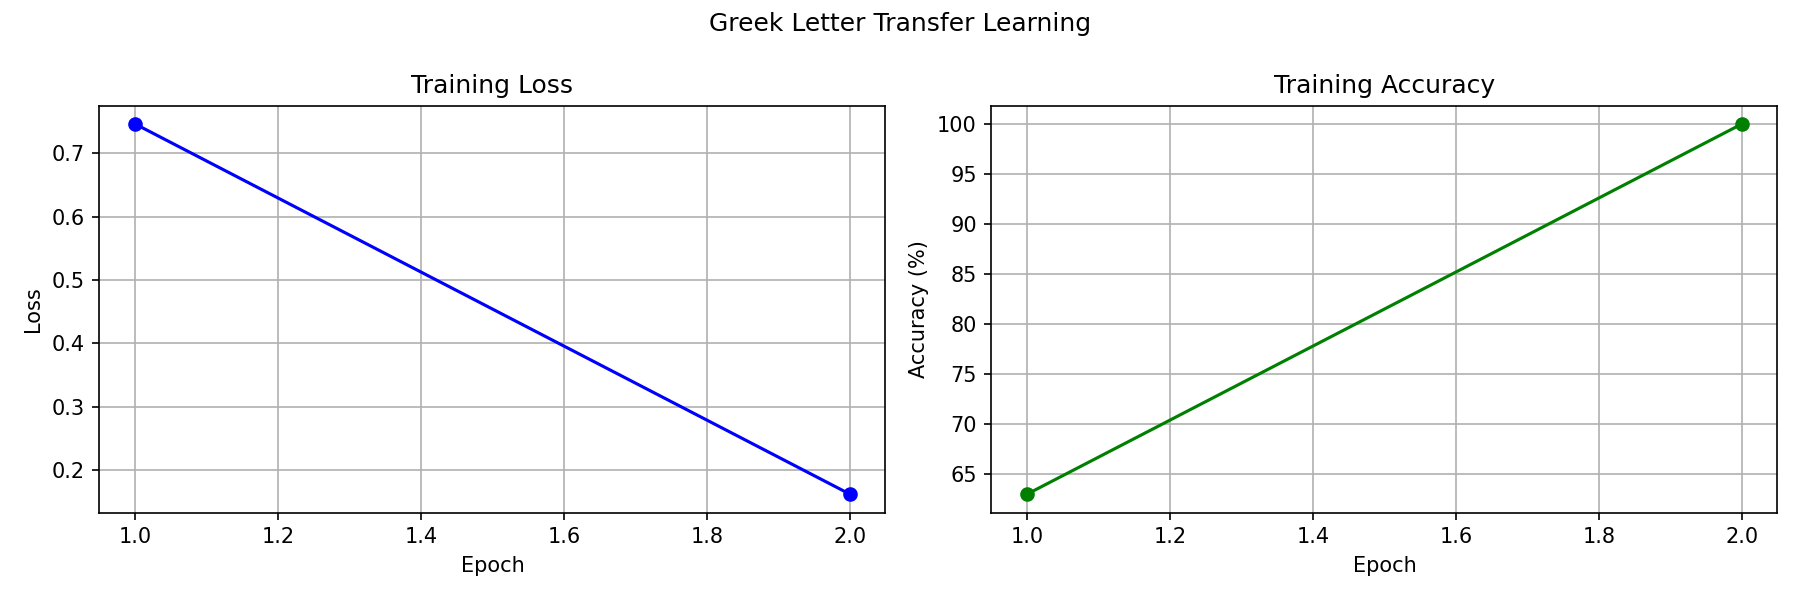
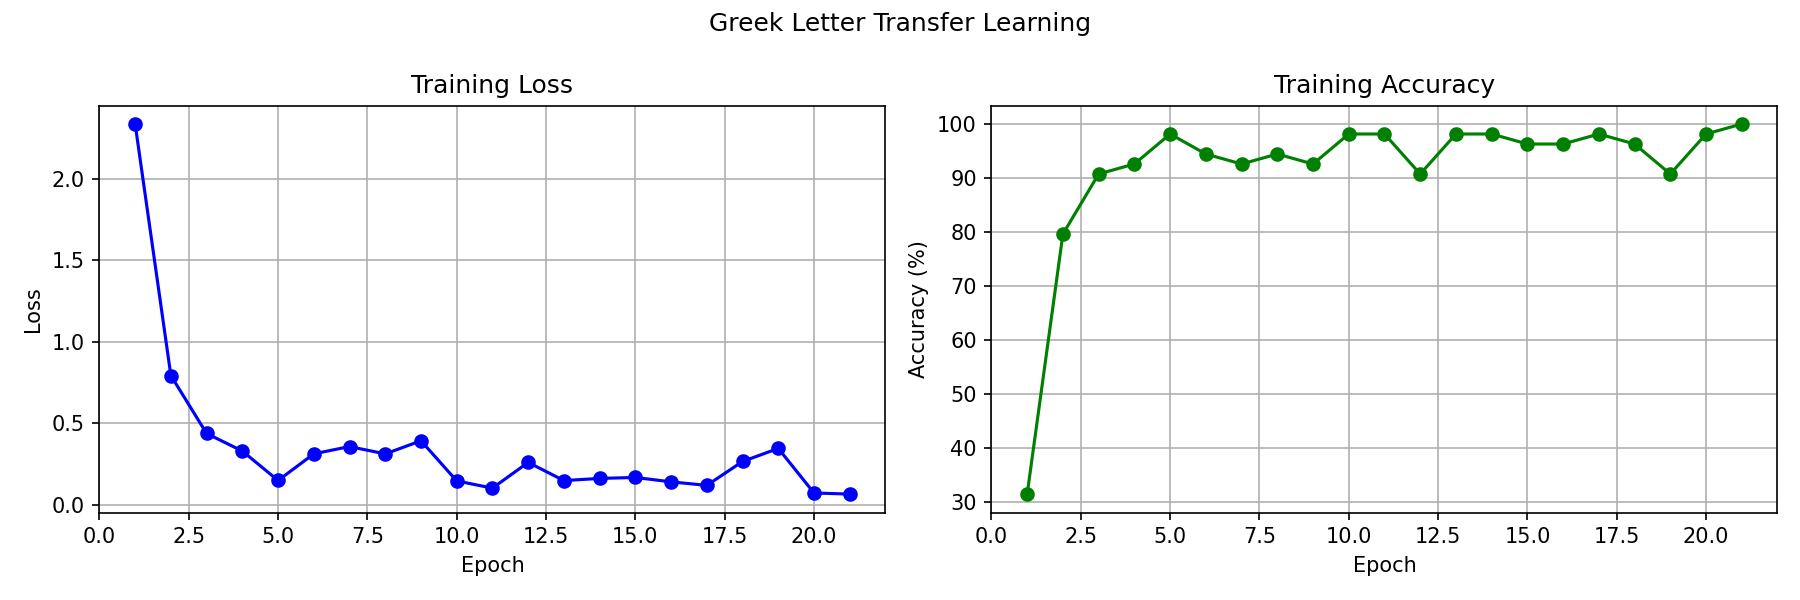
Extension: Transfer learning on additional letters.

diff --git a/greek_transfer.py b/greek_transfer.py
@@ -1,4 +1,3 @@
-
 """
 Aafi Mansuri, Terry Zhen
 Apr 2026
@@ -20,6 +19,7 @@ import matplotlib.pyplot as plt
 from mnist_network import MyNetwork
 from test_network import load_model
 
+
 class GreekTransform:
     def __init__(self) -> None:
         pass
@@ -27,18 +27,22 @@ class GreekTransform:
     def __call__(self, x):
         x = TF.rgb_to_grayscale(x)
         x = TF.affine(x, 0, [0, 0], 36/128, [0.0])
-        x = TF.center_crop(x,(28,28))
+        x = TF.center_crop(x, (28, 28))
         return TF.invert(x)
-    
-def load_greek_data(training_set_path, batch_size = 5):
+
+
+def load_greek_data(training_set_path, batch_size=5):
+    transform_list = [torchvision.transforms.ToTensor()]
+
+    transform_list += [
+        GreekTransform(),
+        torchvision.transforms.Normalize((0.1307,), (0.3081,))
+    ]
+
     greek_train = DataLoader(
         torchvision.datasets.ImageFolder(
             training_set_path,
-            transform=torchvision.transforms.Compose([
-                torchvision.transforms.ToTensor(),
-                GreekTransform(),
-                torchvision.transforms.Normalize((0.1307,), (0.3081,))
-            ])
+            transform=torchvision.transforms.Compose(transform_list)
         ),
         batch_size=batch_size,
         shuffle=True
@@ -47,16 +51,20 @@ def load_greek_data(training_set_path, batch_size = 5):
     return greek_train
 
 
-def prepare_transfer_model(model_path):
+def prepare_transfer_model(model_path, num_classes=3):
     # Load pretrained MNIST model
     model = load_model(model_path)
 
     # Freeze all layers so pretrained weights don't change
     for param in model.parameters():
         param.requires_grad = False
-    
+
+    # Unfreeze fc1
+    for param in model.fc1.parameters():
+        param.requires_grad = True
+
     # Replace last layer
-    model.fc2 = nn.Linear(50,3)
+    model.fc2 = nn.Linear(50, num_classes)
 
     print("Modified network for Greek letter classification:")
     print(model)
@@ -89,9 +97,10 @@ def train_epoch(model, train_loader, optimizer, epoch):
 
     return avg_loss, accuracy
 
-# Plot training loss and accuract over epochs
+
+# Plot training loss and accuracy over epochs
 def plot_training_curves(losses, accuracies):
-    epochs = range(1,len(losses) + 1)
+    epochs = range(1, len(losses) + 1)
 
     fig, (ax1, ax2) = plt.subplots(1, 2, figsize=(12, 4))
 
@@ -117,52 +126,42 @@ def plot_training_curves(losses, accuracies):
 def main(argv):
     model_path = argv[1] if len(argv) > 1 else 'mnist_model.pth'
     data_path = argv[2] if len(argv) > 2 else 'greek_train'
-    num_epochs = int(argv[3]) if len(argv) > 3 else 50
+    num_epochs = int(argv[3]) if len(argv) > 3 else 100
 
     print(f"Training for {num_epochs} epochs")
 
+    # Detect number of classes from subfolder count
+    import os
+    num_classes = len([d for d in os.listdir(data_path) if os.path.isdir(os.path.join(data_path, d))])
+    print(f"Detected {num_classes} classes")
+
     train_loader = load_greek_data(data_path)
-    model = prepare_transfer_model(model_path)
-    optimizer = torch.optim.SGD(model.fc2.parameters(), lr=0.05, momentum=0.9)
-
-    # dataset = train_loader.dataset
-    # print(f"Classes: {dataset.classes}")
-    # print(f"Total images: {len(dataset)}")
-    # print(f"Class to idx: {dataset.class_to_idx}")
-
-    # fig, axes = plt.subplots(1, 9, figsize=(18, 2))
-    # for i in range(9):
-    #     img, label = dataset[i * 3]
-    #     axes[i].imshow(img[0], cmap='gray')
-    #     axes[i].set_title(f"{dataset.classes[label]}")
-    #     axes[i].axis('off')
-    # plt.suptitle("Transformed Greek Letters")
-    # plt.tight_layout()
-    # plt.show()
+    model = prepare_transfer_model(model_path, num_classes=num_classes)
+    optimizer = torch.optim.SGD(model.fc2.parameters(), lr=0.01, momentum=0.9)
 
     losses = []
     accuracies = []
 
     for epoch in range(1, num_epochs + 1):
-        loss, accuracy = train_epoch(model, train_loader,optimizer,epoch)
+        loss, accuracy = train_epoch(model, train_loader, optimizer, epoch)
         losses.append(loss)
         accuracies.append(accuracy)
 
         if epoch % 10 == 0 or accuracy == 100.0:
             print(f"Epoch {epoch}: Loss = {loss:.4f} | Accuracy = {accuracy:.1f}%")
-        
-        # stop early
+
+        # Stop early
         if accuracy == 100.0:
             print(f"Reached 100% accuracy at epoch {epoch}")
             break
 
-    plot_training_curves(losses,accuracies)
+    plot_training_curves(losses, accuracies)
 
     torch.save(model.state_dict(), 'greek_model.pth')
     print("Model saved to 'greek_model.pth'")
 
     return
 
+
 if __name__ == "__main__":
     main(sys.argv)
-

diff --git a/test_transformer.py b/test_transformer.py
@@ -1,0 +1,71 @@
+"""
+Aafi Mansuri, Terry Zhen
+Apr 2026
+CS 5330 - Project 5: Recognition using Deep Networks
+
+Test trained Vision Transformer on MNIST test set
+"""
+
+import sys
+import torch
+import matplotlib.pyplot as plt
+
+from mnist_network import load_data
+from net_transformer import NetTransformer, NetConfig
+
+
+def load_transformer_model(model_path):
+    config = NetConfig()
+    model = NetTransformer(config)
+    model.load_state_dict(torch.load(model_path, weights_only=True, map_location='cpu'))
+    model.eval()
+    return model
+
+
+def run_first_ten(model, test_loader):
+    examples = enumerate(test_loader)
+    _, (images, labels) = next(examples)
+
+    with torch.no_grad():
+        outputs = model(images)
+
+    print("{:^85} {:<20} {:<6}".format(
+        "'Output Values (log softmax)'", "'Max Val Index'", "'Correct Label'\n"))
+
+    for i in range(10):
+        values = outputs[i].numpy()
+        predicted = values.argmax()
+        actual = labels[i].item()
+        formatted_values = " ".join(f"{v:7.2f}" for v in values)
+        print(f"[{formatted_values}]           [{predicted}]                 [{actual}]")
+
+    fig, axes = plt.subplots(3, 3, figsize=(8, 8))
+    for i, ax in enumerate(axes.flat):
+        predicted = outputs[i].numpy().argmax()
+        actual = labels[i].item()
+        color = 'green' if predicted == actual else 'red'
+        ax.imshow(images[i][0], cmap='gray')
+        ax.set_title(f"Predicted: {predicted} | Actual: {actual}", color=color, fontsize=10)
+        ax.axis('off')
+
+    plt.suptitle('Transformer: First 9 MNIST Test Predictions\n(green = correct, red = incorrect)')
+    plt.tight_layout()
+    plt.savefig('transformer_test_predictions.png', dpi=150)
+    plt.show()
+    print("\nSaved transformer_test_predictions.png")
+
+
+def main(argv):
+    model_path = argv[1] if len(argv) > 1 else 'transformer_model.pth'
+
+    print(f"Loading transformer model from {model_path}")
+    model = load_transformer_model(model_path)
+
+    _, test_loader = load_data(10)
+
+    print("Running first ten test samples\n")
+    run_first_ten(model, test_loader)
+
+
+if __name__ == "__main__":
+    main(sys.argv)

diff --git a/test_greek.py b/test_greek.py
@@ -20,7 +20,7 @@ from test_network import load_model
 
 
 # Class label mapping
-CLASS_NAMES = ['alpha', 'beta', 'gamma']
+CLASS_NAMES = ['alpha', 'beta', 'delta', 'gamma', 'lambda', 'theta']
 
 
 # Load Greek letter model with modified last layer
@@ -28,7 +28,7 @@ def load_greek_model(model_path):
     model = MyNetwork()
 
     # Replace last layer to match Greek model structure (3 classes instead of 10)
-    model.fc2 = nn.Linear(50, 3)
+    model.fc2 = nn.Linear(50, 6)
 
     model.load_state_dict(torch.load(model_path, weights_only=True))
     model.eval()
@@ -137,8 +137,9 @@ def test_and_display(model, image_paths, labels, save_path):
         else:
             ax.axis('off')
 
-    plt.suptitle('Custom Greek Letter Classification\n(green = correct, red = incorrect)', fontsize=14)
+    plt.suptitle('Custom Greek Letter Classification\n(green = correct, red = incorrect)', fontsize=14, y=1.02)
     plt.tight_layout()
+    plt.subplots_adjust(hspace=0.5)
     plt.savefig(save_path, dpi=150)
     plt.show()
     print(f"Saved {save_path}")
@@ -154,6 +155,7 @@ def main(argv):
         sys.exit(1)
 
     model = load_greek_model(model_path)
+    print(model)
 
     image_paths, labels = load_images(image_dir)
 

diff --git a/examine_network.py b/examine_network.py
@@ -1,4 +1,4 @@
-"""
+u"""
 Aafi Mansuri, Terry Zhen
 Apr 2026
 CS 5330 - Project 5: Recognition using Deep Networks
